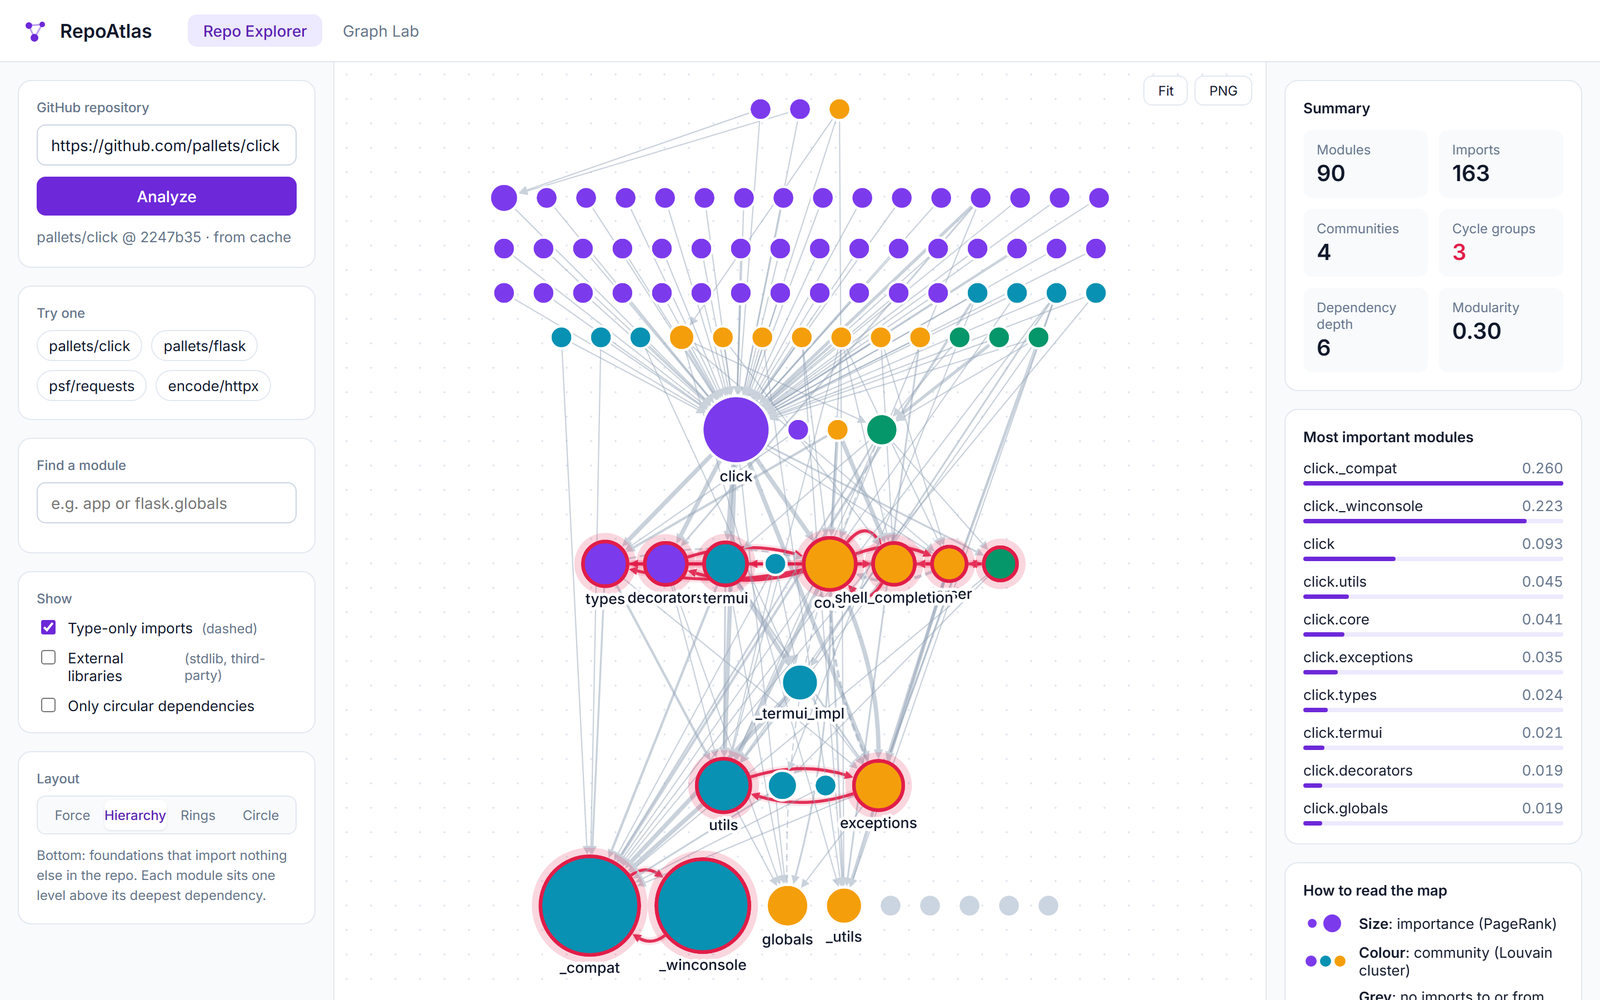
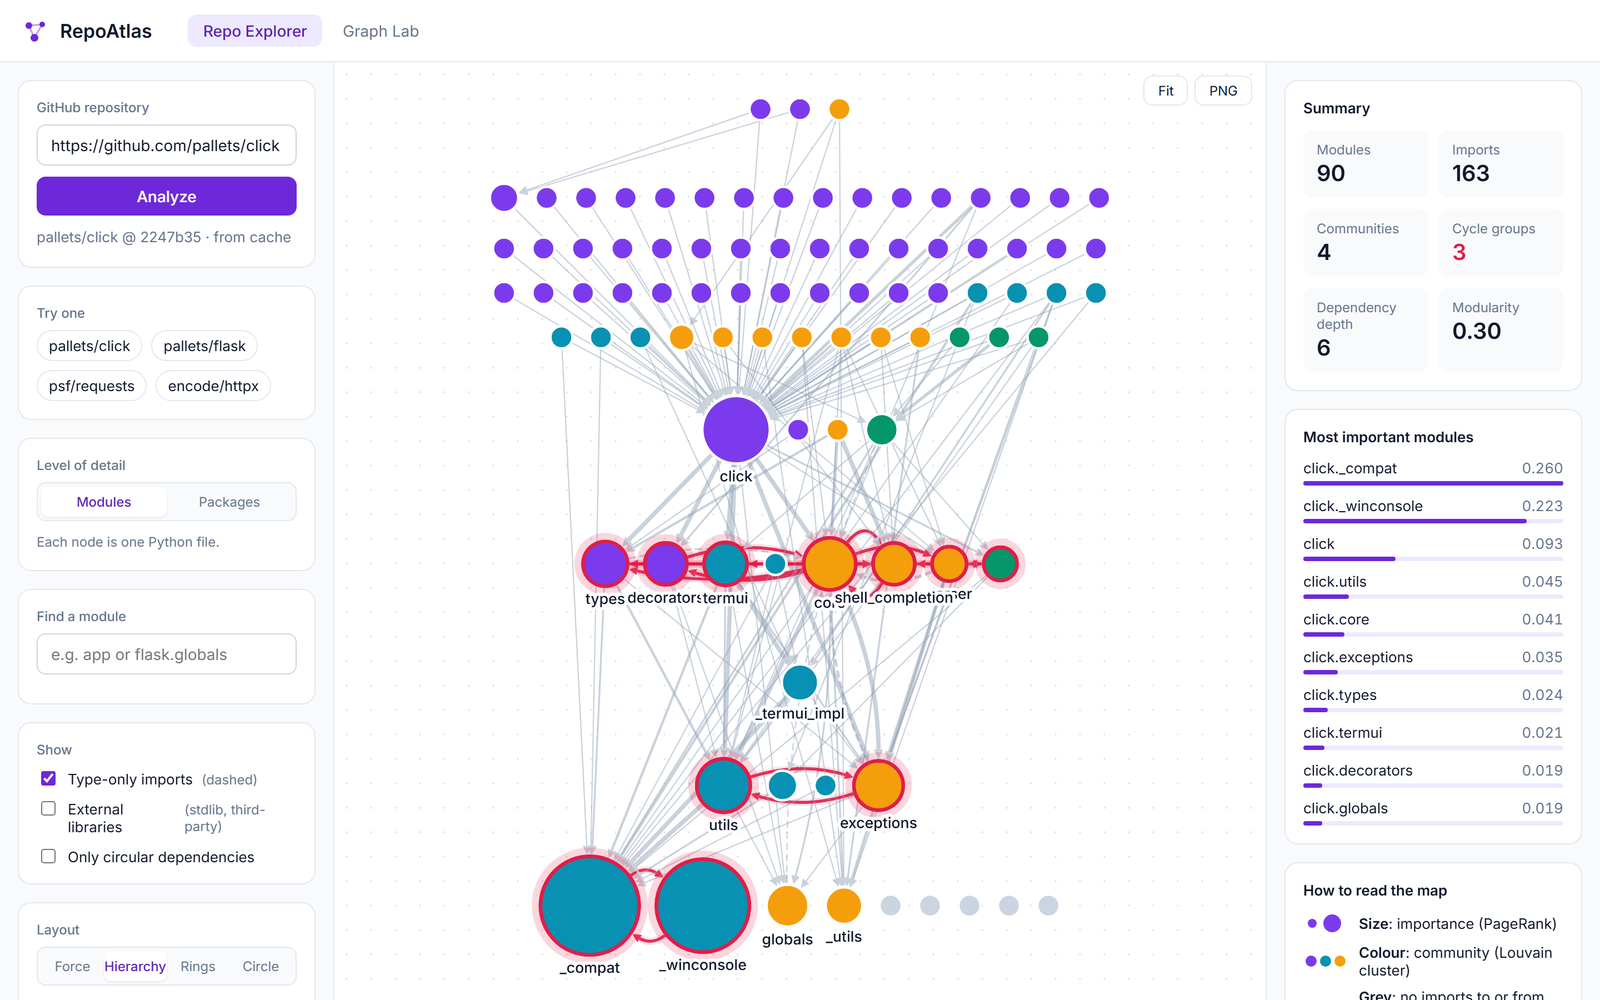
Docs: package view, quotient graphs and refreshed screenshots
- README: features, reading the map, package-level findings, the
  "quotient graph vs compound nodes" decision, API, pipeline step and
  Mermaid diagram, 157 tests; two new gallery images (package view,
  drill-down); the other stills and the demo GIF re-captured with the new
  "Level of detail" card
- CONCEPTS.md 7.1: quotient graphs (condensation and package graph as two
  partitions of the same idea), why cycles inside a package vanish and why a
  package cycle can exist without a module cycle, Acyclic Dependencies
  Principle, observed package cycles

diff --git a/README.md b/README.md
@@ -30,6 +30,9 @@ It's for developers joining an unfamiliar codebase, tech leads planning a refact
   - colour = cluster (Louvain communities)
   - red halo = circular dependency (strongly connected components)
   - dashed arrow = type-only import (`if TYPE_CHECKING:`)
+- **Two levels of detail: Modules or Packages.**
+  - The package view collapses modules into packages: Flask's 82 modules become 20 packages, with their own PageRank, communities and **package-level cycles**.
+  - Click a package to list its modules, then click one to drill down. From a module, its package link goes back up.
 - **Four layouts**, each answering a question:
   - **Force:** what belongs together?
   - **Hierarchy:** what builds on what? (a layered layout written for this project)
@@ -42,7 +45,7 @@ It's for developers joining an unfamiliar codebase, tech leads planning a refact
   - zoom, with labels appearing as nodes grow on screen
 - **Show options:** external libraries, type-only imports, only circular dependencies. These are instant, because filtering happens in the browser.
 - **Summary panel:** modules, imports, communities, cycle groups, dependency depth, modularity, and the 10 most important modules.
-- **Shareable links** (`/?repo=pallets/flask&layout=hierarchy&cycles=1`) and **PNG export** of the current view.
+- **Shareable links** (`/?repo=pallets/flask&layout=hierarchy&level=packages`) and **PNG export** of the current view.
 
 ### Graph Lab
 - Generate **Erdős–Rényi**, **Barabási–Albert** and **Watts–Strogatz** random graphs with sliders and a seed, so any graph can be reproduced.
@@ -56,6 +59,8 @@ It's for developers joining an unfamiliar codebase, tech leads planning a refact
 | **Click a module:** details, imports and imported-by, with its neighbourhood in focus. | **Hierarchy:** tests on top, foundations at the bottom, each cycle group on one red row (pallets/click). |
 | ![Only the circular dependencies of Flask](docs/images/explorer-cycles.png) | ![Watts–Strogatz graph in the Circle layout with violet shortcuts](docs/images/lab-ws.png) |
 | **Only circular dependencies:** Flask's 11-module core loop and an example app's 2-module loop. | **Graph Lab:** a Watts–Strogatz small world, a ring plus a few random shortcuts. |
+| ![Flask's package view with the flask package's card listing its modules](docs/images/explorer-packages.png) | ![The module view after drilling down to flask.sansio.app](docs/images/explorer-drilldown.png) |
+| **Packages:** Flask's 82 modules as 20 packages. The red loop is `flask` ↔ `json` ↔ `sansio`. A package's card lists its modules. | **Drill down:** a module picked from that list opens in the module view, with a link back up to its package. |
 
 ## Reading the map
 
@@ -69,6 +74,7 @@ It's for developers joining an unfamiliar codebase, tech leads planning a refact
 | Grey | No imports to or from the rest of the repo |
 | Dashed arrow | Type-only import: it never runs, so it can't cause a circular-import error |
 | Dashed grey circle | External library (shown on request) |
+| *Package view:* a circle | A whole package (or a folder of loose files); an arrow stands for all the imports between two packages |
 
 ## What it finds in real code
 
@@ -84,6 +90,7 @@ A few things these maps reveal:
 - **The biggest file isn't the most important.** `flask.app` has 1,238 lines but ranks #27: five of its six importers use it only for type hints.
 - **A legacy shim became load-bearing.** requests' #1 module is `requests.compat`, a Python 2/3 compatibility layer still imported by 14 modules.
 - **Some cycles only exist on one platform.** click's `_compat ↔ _winconsole` loop only runs on Windows (`if sys.platform.startswith("win")`).
+- **Loops between packages.** At package level, Flask's 20 packages keep one loop: `flask` ↔ `flask.json` ↔ `flask.sansio`. httpx's 5 packages keep one too: `httpx` ↔ `httpx._transports`. Packages in a loop can't be split out or understood on their own. requests and click have none.
 
 ## How it works
 
@@ -97,7 +104,8 @@ flowchart TB
         PA --> RE["resolver<br/>internal / stdlib / third-party"]
         RE --> GB["graph_builder<br/>NetworkX DiGraph"]
         GB --> AN["analytics<br/>PageRank · Louvain · SCC · depth"]
-        AN --> SE["serializer<br/>Cytoscape JSON"]
+        AN --> PK["packages<br/>collapse into packages · same analytics"]
+        PK --> SE["serializer<br/>Cytoscape JSON"]
         GEN["generators<br/>ER · BA · WS + stats"]
     end
     P <--> DB[("SQLite cache<br/>repo · commit · version")]
@@ -110,7 +118,8 @@ flowchart TB
 4. **Parse** every `.py` file with Python's `ast`. The code is read as data and never run.
 5. **Resolve** each import: longest matching module, relative imports, the script-folder rule, stdlib versus third-party.
 6. **Build** a directed graph (A → B means "A imports B") and run the **analytics** on the repo's own runtime imports.
-7. **Serialize** to Cytoscape's `{"data": {...}}` format, so the browser draws it as-is.
+7. **Collapse** it into a package graph (one node per package folder; an edge sums every import between two packages) and run the same analytics on that.
+8. **Serialize** both to Cytoscape's `{"data": {...}}` format, so the browser draws them as-is.
 
 ## Design decisions
 
@@ -121,6 +130,7 @@ flowchart TB
 | Type-only imports as dashed edges, excluded from analytics | They never run. Counting them turned Flask's core into a fake 20-module cycle and gave requests an 8-module one that doesn't exist. | Dropping them (loses information) or counting them (fake cycles) |
 | Analytics on the repo's own modules only | `typing` would top every ranking, and toggling libraries must not change sizes or colours | Analysing whatever is visible |
 | Our own layered layout (simplified Sugiyama) | Cytoscape's breadth-first layout put 60 test modules on one row. Ours collapses cycle groups (condensation), assigns layers by longest path, orders by community and wraps rows. | `breadthfirst`; adding a dagre dependency |
+| Package view as a separate, collapsed graph (a quotient graph) | It gets its own analytics, including cycles *between packages*. It works with every layout, and the server computes it once and caches it. | Cytoscape compound nodes (modules drawn inside package boxes): no package-level analytics, and the layered, ring and circle layouts don't support them |
 | Circle area ∝ importance (square-root sizing) | Viewers judge circles by area | Linear diameter (exaggerates the top module) |
 | Cache key = repo + commit + analysis version | A commit is an exact snapshot, so its analysis never changes; the version invalidates old results when the analysis logic changes | Time-based expiry (stale or wasteful) |
 | Git with credential helpers disabled | Private repos fail fast as 404 instead of hanging on a login prompt, and the server never uses saved credentials | Relying on the timeout |
@@ -132,7 +142,7 @@ flowchart TB
 | Endpoint | Purpose |
 |---|---|
 | `GET /api/health` | `{"status": "ok"}` |
-| `POST /api/analyze` | Body `{"repo_url": "https://github.com/pallets/flask", "include_external": false}`. Returns the commit, a `cached` flag, the summary, and the nodes and edges in Cytoscape's format |
+| `POST /api/analyze` | Body `{"repo_url": "https://github.com/pallets/flask", "include_external": false}`. Returns the commit, a `cached` flag, the summary, the nodes and edges in Cytoscape's format, and `packages`: the same graph collapsed into packages, with its own summary |
 | `GET /api/generate?model=ba&n=200&m=2&seed=1` | Random graph (`er`: n, p · `ba`: n, m · `ws`: n, k, p). Returns the stats, the degree distribution, and the nodes and edges |
 
 Errors always look like `{"detail": "..."}`: 400 bad URL or parameters · 404 not found or private · 413 too many files · 422 no Python files · 502 git failed · 503 busy · 504 timed out. Interactive docs are at `/docs`.
@@ -155,11 +165,11 @@ Requires Python 3.11+ and `git` on your PATH. `requirements.txt` is the runtime 
 
 ## Testing and CI
 
-**135 tests** (pytest). They cover:
+**157 tests** (pytest). They cover:
 - URL validation, including injection attempts
 - path → module naming on real layouts (src/, nested projects, name clashes)
 - every import-resolution rule, plus a fake repository with a known graph and one cycle
-- analytics, the cache and the API (offline, with GitHub faked)
+- analytics, the package graph (grouping rules, a cycle between packages without any cycle between modules), the cache and the API (offline, with GitHub faked)
 
 Several Graph Lab tests check **graph theory** rather than shape: ring-lattice clustering = 3(k−2)/(4(k−1)), the small-world drop in path length, Barabási–Albert hubs versus Erdős–Rényi, and exact edge counts.
 
@@ -176,7 +186,6 @@ GitHub Actions runs two jobs on every push and pull request:
 
 ## Future work
 
-- Collapse packages into compound nodes for very large repositories
 - Compare two repositories, or two commits of one, side by side
 - Function-level call graphs
 - Stream real progress (Server-Sent Events) instead of estimated loading steps

diff --git a/docs/CONCEPTS.md b/docs/CONCEPTS.md
@@ -17,9 +17,10 @@ A repository becomes a **directed, weighted, attributed graph** G = (V, E):
 
 **Why this edge direction.** Arrows point from the dependent module to its dependency, so importance flows *towards* the modules everything relies on. PageRank then ranks foundations highly without any extra work.
 
-**Two derived graphs** do the analytical work:
+**Three derived graphs** do the analytical work:
 - the **analysis view**: repo modules only, runtime imports only (no type-only edges, no external libraries)
 - the **condensation**: every strongly connected component collapsed into one node, which makes the graph acyclic (section 7)
+- the **package graph**: every package collapsed into one node, which can still contain cycles: cycles *between packages* (section 7.1)
 
 ---
 
@@ -80,8 +81,8 @@ Real repositories give 35–150 nodes and 100–450 edges, enough to produce a "
 |---|---|
 | **Filtering** | External libraries hidden by default (Flask: 146 → 82 nodes); type-only imports toggle; "only circular dependencies" (Flask: 82 → 13 nodes) |
 | **Focus + context** | Hovering keeps a module's closed neighbourhood sharp and fades everything else to 12% opacity |
-| **Label culling** | The 8 highest-PageRank modules ("landmarks") are always named; any other node only once it is ≥ 30 px on screen, recomputed on zoom |
-| **Aggregation** | Cycle groups collapsed into one layer unit in the layered layout; *future:* packages collapsed into compound nodes |
+| **Label culling** | The 8 highest-PageRank modules ("landmarks") are always named; any other node only once it is ≥ 30 px on screen, recomputed on zoom. Graphs of at most 25 nodes name everything. |
+| **Aggregation** | **Package view**: modules collapsed into packages (Flask: 82 → 20 nodes, 162 → 24 edges; section 7.1). Cycle groups are also collapsed into one layer unit in the layered layout. |
 | **Semantic layouts** | Layered and concentric layouts give positions a meaning, so the eye knows where to look |
 | **Search** | Type part of a name and the camera flies to the best match |
 
@@ -90,8 +91,8 @@ Real repositories give 35–150 nodes and 100–450 edges, enough to produce a "
 
 | Task | RepoAtlas |
 |---|---|
-| **Overview** | Fit-to-screen graph, summary panel, top-10 list |
-| **Zoom** | Mouse-wheel zoom with progressive labels; search flies to a module |
+| **Overview** | Fit-to-screen graph, summary panel, top-10 list; the package view as an overview of the architecture |
+| **Zoom** | Mouse-wheel zoom with progressive labels; search flies to a module; drill down from a package to its modules |
 | **Filter** | Show options (external, type-only, cycles only) |
 | **Details on demand** | Click a module: path, lines, rank, community |
 | **Relate** | Details card lists *imports* and *imported by*; click to follow |
@@ -141,6 +142,28 @@ Collapsing each SCC into one node gives the **condensation**, which is always a 
 
 **A key finding.** Counting `if TYPE_CHECKING:` imports as normal edges inflated the cycles dramatically: Flask [20, 2] → [11, 2], requests [8] → none, httpx [11, 6] → [2]. Type-only imports never run, so they can't create a circular-import problem. They are therefore drawn dashed and excluded from all analytics.
 
+### 7.1 Quotient graphs: the package view
+
+Given a partition of the nodes into blocks, the **quotient graph** has one node per block and an edge from block P to block Q whenever some edge goes from a node in P to a node in Q. The condensation is the quotient under the "same SCC" partition. The package view is the quotient under the **"same package"** partition: a package is a folder, so modules are grouped by folder. Edge weights add up, and an edge is type-only only if every import behind it is.
+
+The same analytics then run on the smaller graph: PageRank, Louvain, SCCs and depth. Two properties make package cycles worth computing separately:
+- **A cycle inside one package disappears.** Its modules become one node. In the test fixture, the `orders ↔ payments` cycle lives inside `shop`, so the package graph has no cycle.
+- **A cycle between packages can appear without any cycle between modules.** For example, `a.x → b.y` and `b.z → a.w`: no module reaches itself, but packages `a` and `b` depend on each other. (A module cycle that crosses packages always shows up as a package cycle.)
+
+**Why it matters.** Packages are the units people own, test and release. The *Acyclic Dependencies Principle* (Martin 2002) says the package graph should be a DAG: packages in a loop can only be understood, changed or released together.
+
+**Observed:**
+- Flask: 82 modules → 20 packages. One package cycle remains: `flask` ↔ `flask.json` ↔ `flask.sansio`.
+- httpx: 60 → 5 packages, with `httpx` ↔ `httpx._transports`.
+- requests (35 → 4) and click (90 → 17) have no package cycles.
+
+**Why a separate graph rather than compound nodes.** Cytoscape can draw modules inside package boxes ("compound nodes"). That shows the same grouping, but it has three drawbacks:
+- it gives no package-level analytics
+- it stays as crowded as the module graph
+- the layered, concentric and circle layouts don't support parent boxes
+
+The quotient graph is computed once on the server, cached with the module graph, and drawn with the same code.
+
 ---
 
 ## 8. Random graph models (Graph Lab)
@@ -177,6 +200,7 @@ The Graph Lab generates the three classic models and measures them, so their def
 | Selection + linked views | Click a module: the details card and the graph stay in sync; click a neighbour in the card to move there |
 | Dynamic queries | Show options re-filter instantly in the browser |
 | Semantic zoom (labels) | Labels appear as nodes grow on screen |
+| Drill-down between levels | Package view ↔ module view: a package's card lists its modules (click to drill down); a module's card links up to its package |
 | Camera animation | Search and the top-modules list fly to the module |
 
 ---
@@ -186,7 +210,7 @@ The Graph Lab generates the three classic models and measures them, so their def
 - **Static analysis:** dynamic imports aren't seen, and conditional imports count even if they only run on one platform (click's `_compat ↔ _winconsole` cycle exists only on Windows).
 - **Force layouts aren't deterministic.** Positions shouldn't be read as data.
 - **Colours are labels.** Community 0 in two repositories are unrelated groups.
-- **Scale.** Beyond a few hundred modules, compound-node aggregation (future work) would be needed.
+- **Scale.** Beyond a few hundred modules the module view gets crowded. The package view is the overview at that scale, but a very large package can still be a crowded drill-down.
 
 ---
 
@@ -198,6 +222,7 @@ The Graph Lab generates the three classic models and measures them, so their def
 - Erdős, P. & Rényi, A. (1959). On random graphs I. *Publicationes Mathematicae*.
 - Fruchterman, T. M. J. & Reingold, E. M. (1991). Graph drawing by force-directed placement. *Software: Practice and Experience* 21(11).
 - Mackinlay, J. (1986). Automating the design of graphical presentations of relational information. *ACM Transactions on Graphics* 5(2).
+- Martin, R. C. (2002). *Agile Software Development: Principles, Patterns, and Practices*. Prentice Hall. (Acyclic Dependencies Principle.)
 - Newman, M. E. J. (2006). Modularity and community structure in networks. *PNAS* 103(23).
 - Page, L., Brin, S., Motwani, R. & Winograd, T. (1999). The PageRank citation ranking: Bringing order to the web. Stanford InfoLab.
 - Shneiderman, B. (1996). The eyes have it: A task by data type taxonomy for information visualizations. *IEEE Symposium on Visual Languages*.
